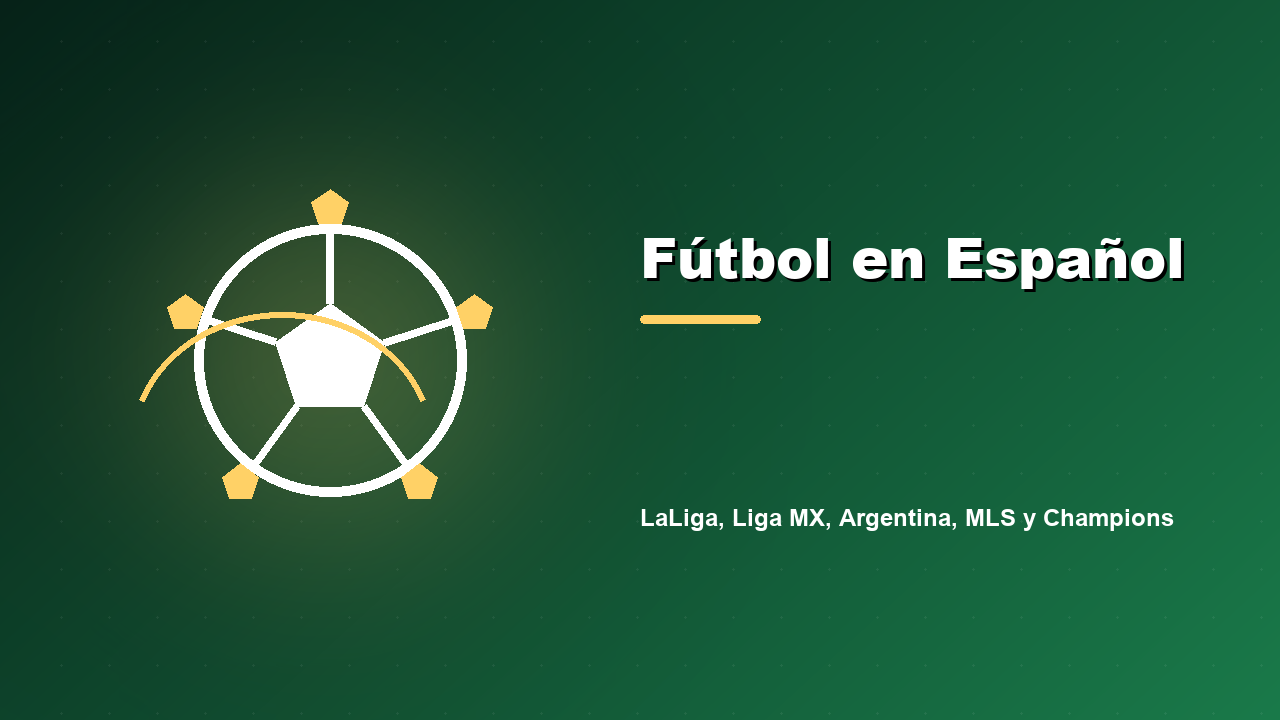
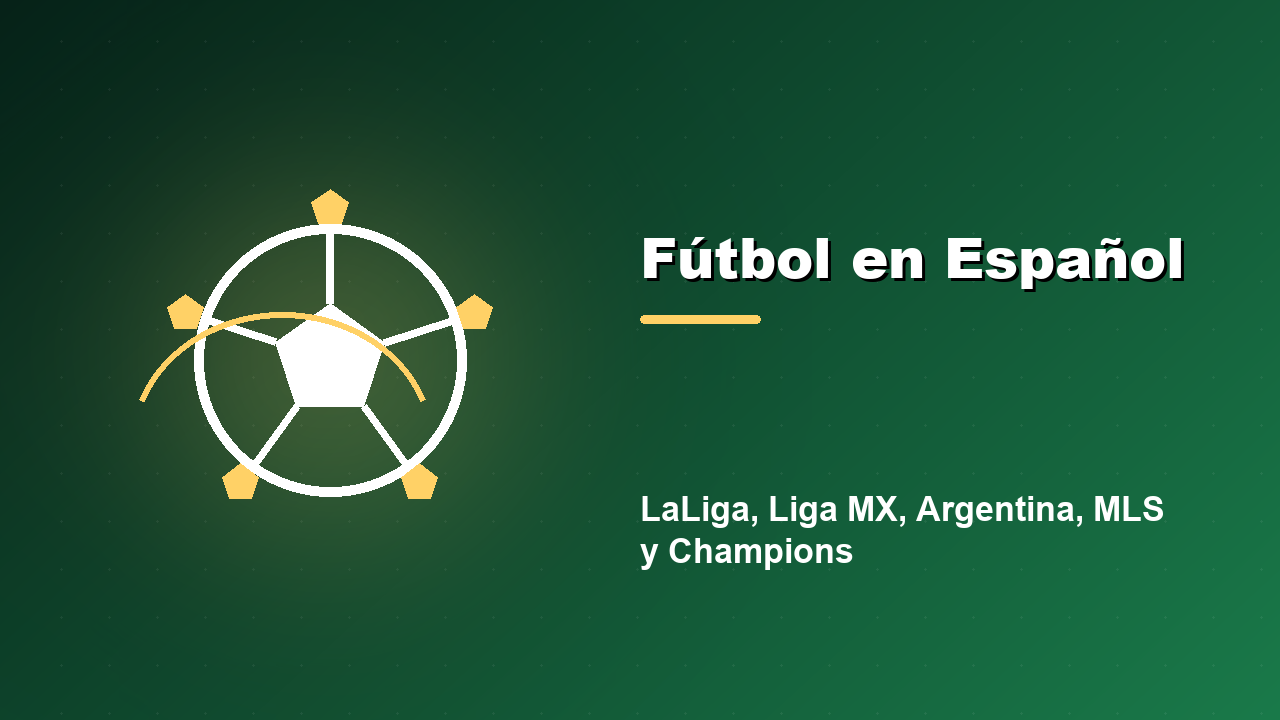
assets: wrap long cover taglines, add preview contact sheets

Changed region(s): [[0.5, 0.6722, 0.9375, 0.7944]]

diff --git a/scripts/make_logos.py b/scripts/make_logos.py
@@ -283,8 +283,34 @@ def make_cover(channel_id: str, spec: dict, size=(1280, 720)) -> Image.Image:
                             x0 + 120, h * 0.30 + (draw.textbbox((0, 0), spec["title"], font=title_font)[3]) + 34),
                            radius=4, fill=spec["accent"] + (255,))
 
-    tag_font = _text_fit(draw, spec["tagline"], FONT_BOLD, 34, w - x0 - 90, 24)
-    draw.text((x0, h * 0.70), spec["tagline"], font=tag_font, fill=(255, 255, 255, 200))
+    # подпись: переносим в 2 строки, подбирая кегль
+    max_w = w - x0 - 90
+    tag_size = 34
+    tag_lines: list = []
+    while tag_size >= 22:
+        tag_font = _font(FONT_BOLD, tag_size)
+        words = spec["tagline"].split()
+        lines, cur = [], ""
+        for word in words:
+            candidate = (cur + " " + word).strip()
+            if draw.textlength(candidate, font=tag_font) <= max_w or not cur:
+                cur = candidate
+            else:
+                lines.append(cur)
+                cur = word
+        if cur:
+            lines.append(cur)
+        if len(lines) <= 2:
+            tag_lines = lines
+            break
+        tag_size -= 2
+    if not tag_lines:
+        tag_font = _font(FONT_BOLD, 22)
+        tag_lines = [spec["tagline"]]
+    y = h * 0.68
+    for line in tag_lines:
+        draw.text((x0, y), line, font=tag_font, fill=(255, 255, 255, 200))
+        y += tag_size + 8
     return img.convert("RGB")
 
 
